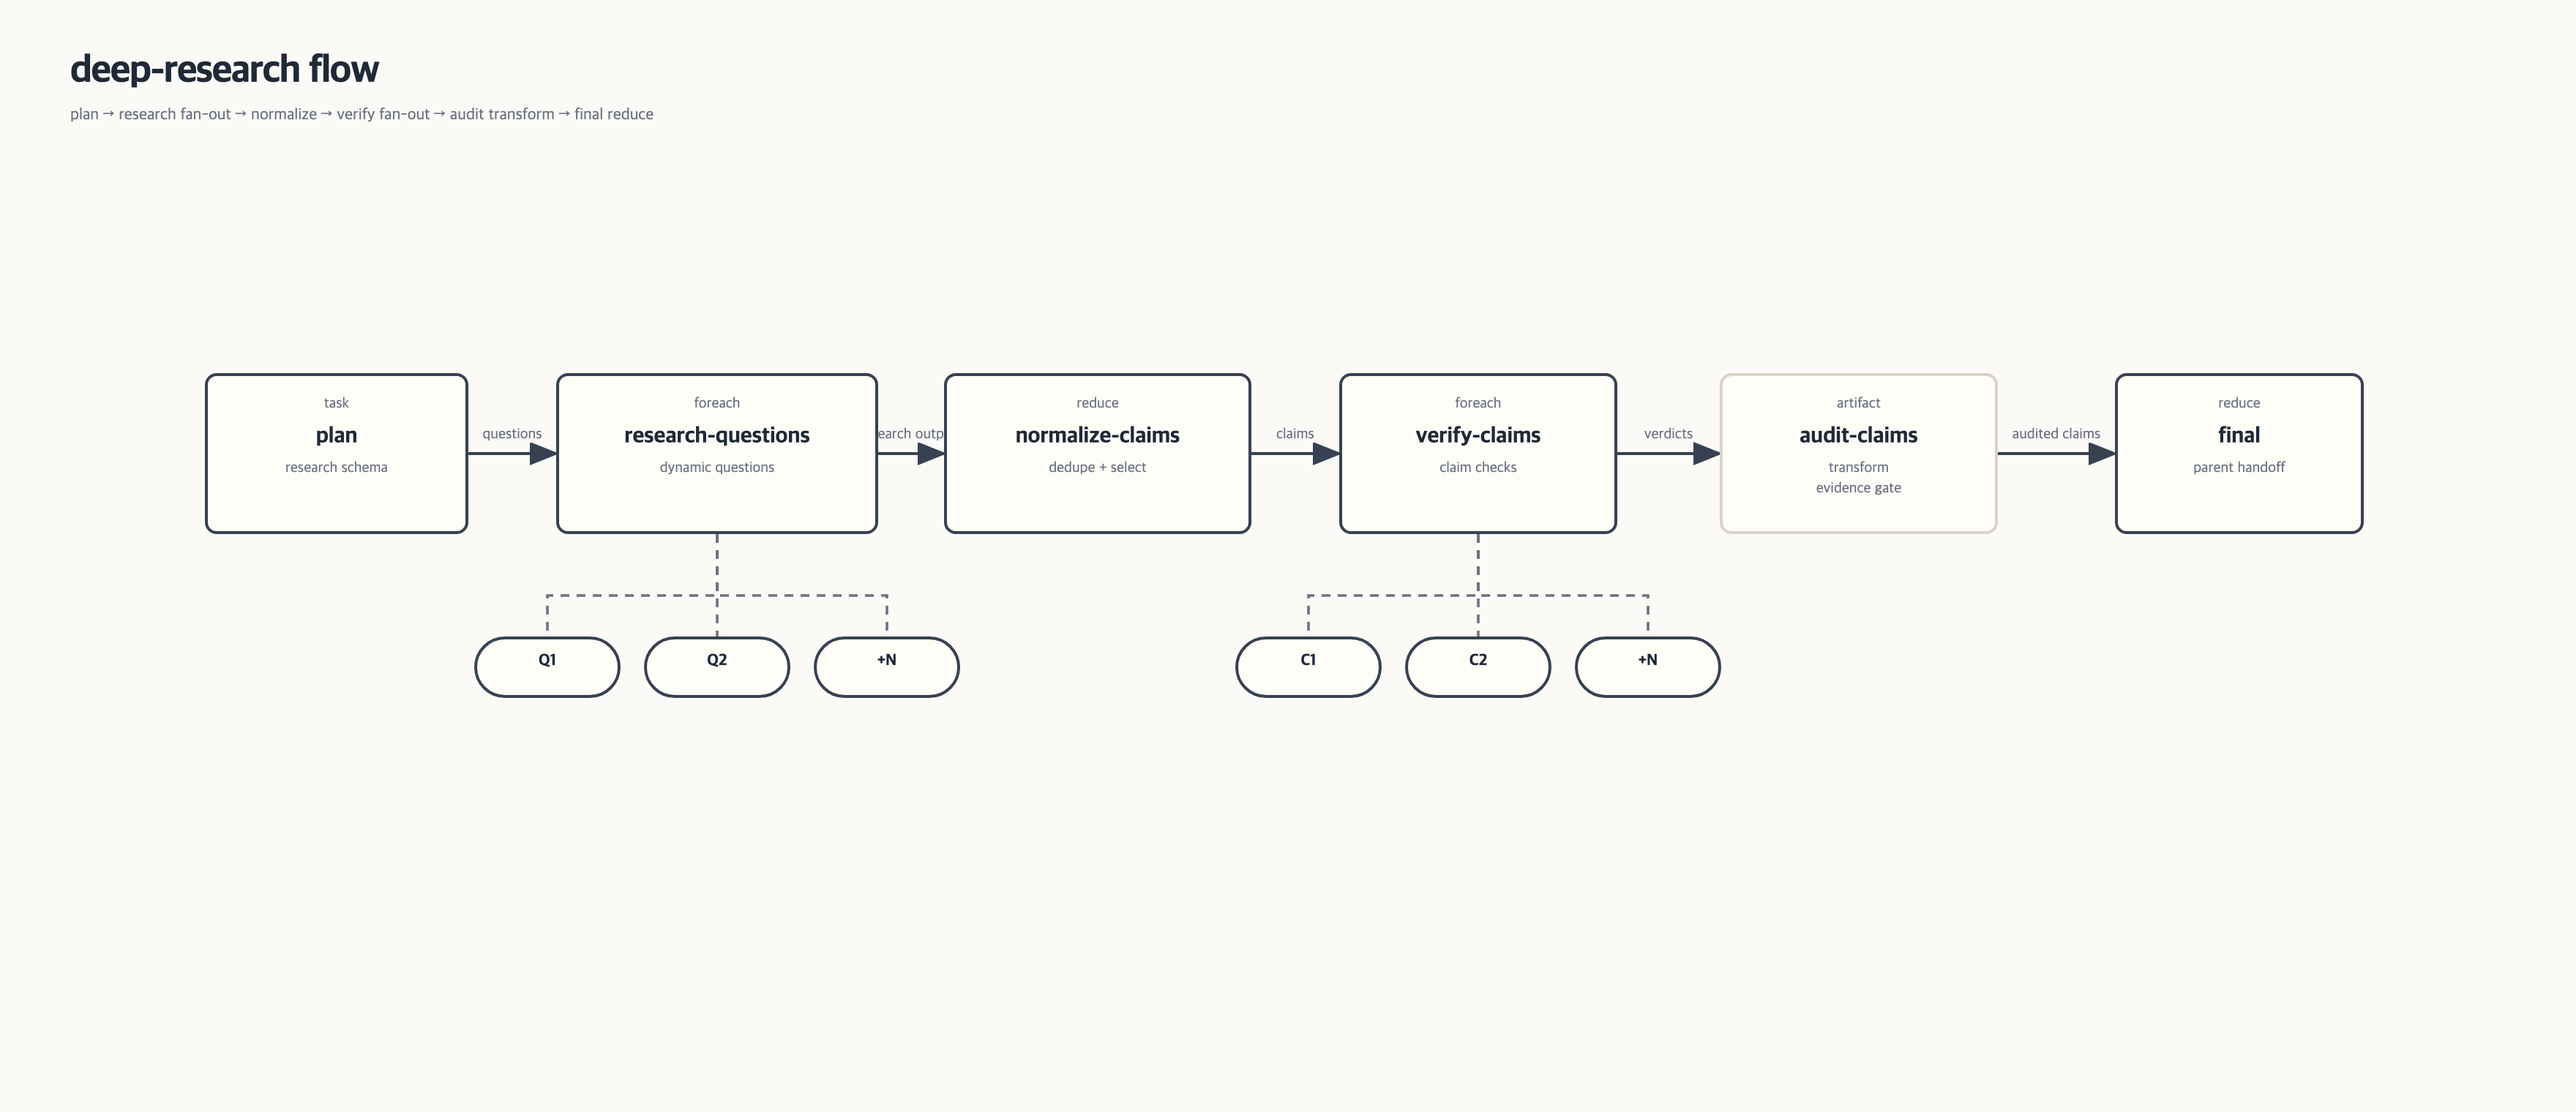
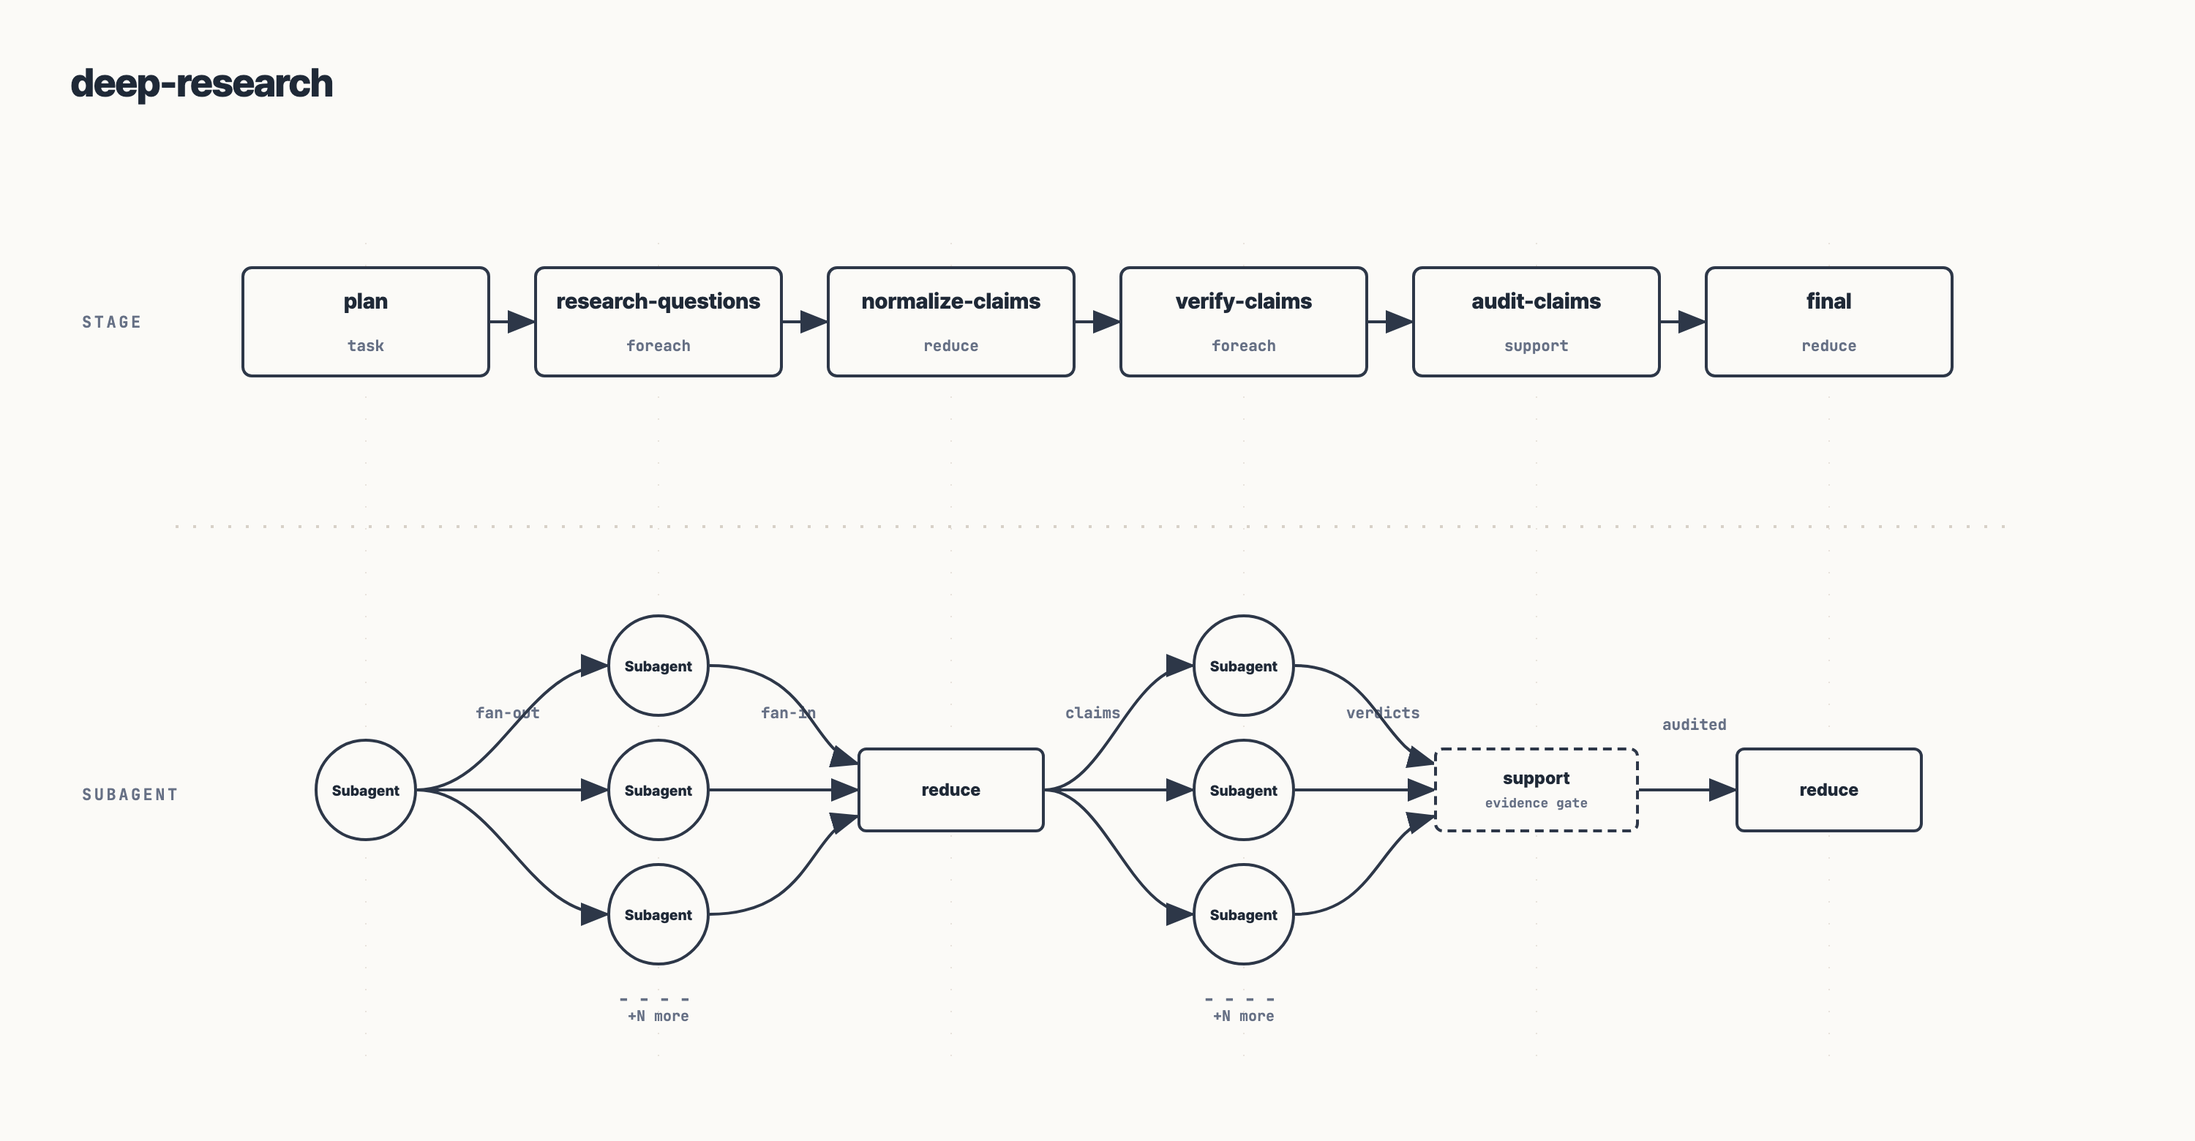
Refresh README workflow overview

diff --git a/README.md b/README.md
@@ -4,21 +4,24 @@
 
 [![npm](https://img.shields.io/npm/v/@agwab/pi-workflow.svg)](https://www.npmjs.com/package/@agwab/pi-workflow)
 
-`pi-workflow` lets you write project-specific workflows and run them through Pi's focused `/workflow` command surface. It supports explicit workflow structure — stage graphs, subagent fan-out/fan-in, local support helpers, bounded loops, and resumable artifacts — on top of [`@agwab/pi-subagent`](https://www.npmjs.com/package/@agwab/pi-subagent)'s durable worker runtime.
+`pi-workflow` lets Pi run repeatable multi-agent workflows: research, review, implementation loops, test repair, and project-specific team routines.
 
-It is intentionally a thin orchestration layer, so you can add it when you want reusable team workflows and remove it when plain Pi or direct subagent calls are enough.
-
-npm package: [`@agwab/pi-workflow`](https://www.npmjs.com/package/@agwab/pi-workflow)
+It is a thin orchestration layer on top of [`@agwab/pi-subagent`](https://www.npmjs.com/package/@agwab/pi-subagent). A workflow defines stages, agents, tools, output contracts, support helpers, and safety policy. The concrete user task is still supplied at runtime in natural language.
 
 ## Installation
 
-Install the package. This downloads both the `/workflow` extension and the bundled `workflow-guide` skill:
+Install the package:
 
 ```bash
 pi install npm:@agwab/pi-workflow
 ```
 
 Then reload Pi.
+
+This installs both:
+
+- the `/workflow` extension
+- the bundled `workflow-guide` skill
 
 To update later:
 
@@ -28,22 +31,9 @@ pi update npm:@agwab/pi-workflow
 
 Requires Node.js `>=22.19.0` on macOS or Linux. Native Windows is not supported; use WSL2.
 
-## Quick usage
+## Usage: ask naturally
 
-After installing and reloading Pi, call the bundled skill explicitly when you want to create or customize a workflow:
-
-```text
-/skill:workflow-guide create a workflow for weekly release readiness.
-It should inspect docs, tests, recent changes, and produce a final checklist.
-Save it as a reusable project workflow.
-```
-
-```text
-/skill:workflow-guide adapt deep-review for frontend accessibility and UX review.
-Save it as a reusable project workflow.
-```
-
-Then ask Pi to use a bundled or project workflow by name:
+After installation, ask Pi to use a bundled or project workflow by name:
 
 ```text
 Use the bundled deep-research workflow to research this repository and summarize the architecture tradeoffs.
@@ -53,131 +43,29 @@ Use the bundled deep-research workflow to research this repository and summarize
 Use the bundled deep-review workflow to review the current diff from multiple angles.
 ```
 
-If `/skill:workflow-guide` is not available, enable skill commands in Pi settings or use natural language: `Use workflow-guide to ...`.
-
-`workflow-guide` is the recommended way to create or customize workflows: describe the outcome, the agents/tools you want to allow, and the review or validation steps you expect.
-
-## What workflows do
-
-A workflow is a deterministic stage graph. The concrete user task is supplied at runtime; the workflow definition supplies the structure, role prompts, tool ceilings, output contracts, and safety policy.
-
-Important rule: **stage order controls scheduling only**. A later plain `task` stage does not automatically receive prior output. Use `foreach.from` for dynamic fan-out, `reduce.from` for source-context fan-in, and support `from` for local helper inputs.
-
-Public workflow definitions have three layers:
-
-- **Workflow layer**: stage ids, `from`, `sourcePolicy`, scheduling, and run artifacts.
-- **Subagent layer**: child Pi/model worker shapes — `task`, `parallel`, `foreach`, `reduce`, and `loop`.
-- **Support layer**: workflow-local helper execution via `support`; this is local Node code, not a subagent task type.
-
-| Node | Layer | Use it for | Runtime shape |
-|---|---|---|---|
-| `type: "task"` | Subagent | One focused step | one prompt -> one subagent |
-| `type: "parallel"` | Subagent/control | Static fan-out | fixed task list -> multiple subagents, bounded concurrency |
-| `type: "foreach"` | Subagent/control | Dynamic fan-out | read an array from prior JSON output -> one subagent task per item |
-| `type: "reduce"` | Subagent | Fan-in / synthesis | selected prior stage context -> one subagent |
-| `type: "loop"` | Workflow/control | Bounded repetition | repeat a fixed child stage subgraph until a deterministic stop condition |
-| `support` | Support | Deterministic local post-processing | selected prior structured outputs -> directory-local `.mjs` helper |
-
-A minimal workflow definition:
-
-```json
-{
-  "schemaVersion": 1,
-  "agent": "researcher",
-  "readOnly": true,
-  "tools": ["read", "grep", "find", "ls", "web_search", "fetch_content"],
-  "workflow": {
-    "stages": [
-      {
-        "id": "plan",
-        "type": "task",
-        "output": {
-          "format": "json",
-          "contract": { "requiredPaths": ["$.questions"] }
-        },
-        "prompt": "Plan the research questions."
-      },
-      {
-        "id": "research",
-        "type": "foreach",
-        "from": { "stage": "plan", "path": "$.questions", "mode": "concat" },
-        "maxConcurrency": 4,
-        "each": { "prompt": "Research this question: ${item}" }
-      },
-      {
-        "id": "normalize",
-        "from": "research",
-        "sourcePolicy": "partial",
-        "support": {
-          "uses": "./helpers/normalize.mjs",
-          "options": { "dedupe": true }
-        }
-      },
-      {
-        "id": "summary",
-        "type": "reduce",
-        "from": ["plan", "normalize"],
-        "prompt": "Use Source Stage Context to synthesize the answer."
-      }
-    ]
-  }
-}
+```text
+Use the test-repair-loop workflow to fix the failing validation command I just ran.
 ```
 
-### Tool allowlists and provider metadata
+Bundled starter workflows:
 
-`tools` may be a string allowlist or a mix of strings and objects. Strings keep the existing behavior. Object entries select the same tool name while adding local provider and safety metadata for custom tools:
+| Workflow | Use when |
+|---|---|
+| `deep-research` | Source-backed research, claim verification, citations, or follow-up suggestions. |
+| `deep-review` | Multi-lens review where findings should be challenged before final synthesis. |
+| `implement-loop` | Iterative implementation in one managed worktree until validation passes and review accepts. |
+| `test-repair-loop` | Focused repair loop for failing tests or explicit validation commands. |
 
-```json
-{
-  "tools": [
-    "read",
-    "fetch_content",
-    {
-      "name": "scrapling_fetch",
-      "extensions": ["packages/pi-scrapling-access"],
-      "classification": "read-only",
-      "optional": true,
-      "fallbackTools": ["fetch_content"]
-    }
-  ]
-}
-```
+These are starter workflows, not a complete catalog. Most teams should create project-specific workflows as their patterns settle.
 
-Agent frontmatter remains the authority ceiling: workflow, defaults, and stage `tools` can only narrow tools already declared by the selected agent. Built-in tool classifications remain authoritative; custom tools without an explicit object `classification` still require explicit review. Bundled/public workflows should avoid machine-specific local provider paths. Project-local workflows may use deliberate local package refs such as `packages/...` when they are portable within that project.
+## Usage: create your own workflows
 
-## Bundled starter workflows
-
-The package includes a small starter set in [`workflows/`](./workflows/). These are practical defaults and authoring examples, not a comprehensive workflow catalog. Most teams should copy or create project-specific workflows under `.pi/workflows/` as their patterns settle.
-
-Workflow names resolve from project `.pi/workflows/`, repository `workflows/`, bundled package workflows, and `~/.pi/agent/workflows/`; ambiguous names fail closed.
-
-| Workflow | Shape | Use when |
-|---|---|---|
-| `deep-research` | task -> foreach -> reduce -> foreach -> support -> reduce | Source-backed research, claim verification, deterministic evidence gating, citations, or follow-up suggestions. |
-| `deep-review` | task -> foreach -> support -> foreach -> support -> reduce | Multi-lens review where findings should be challenged before final synthesis. |
-| `implement-loop` | loop: implement -> final check | Iterative implementation in one managed worktree until validation passes and review accepts. |
-| `test-repair-loop` | loop: repair -> final test-check | Focused repair loop for failing tests or explicit validation commands. |
-
-Additional workflow shapes are intentionally left to project-local workflows until their task fit is clear enough to bundle.
-
-## Create or customize workflows with `workflow-guide`
-
-`pi-workflow` includes a `workflow-guide` skill for creating, modifying, and reviewing workflow definitions.
-
-Use it when you want to adapt a bundled starter or create a project-specific workflow. Tell Pi what kind of workflow you want, what it should check, which agents it should use, and where to save it.
-
-Examples:
+Use the bundled `workflow-guide` skill when you want to create, adapt, or review a workflow definition:
 
 ```text
-/skill:workflow-guide create a backend API review workflow.
-It should check concurrency, transaction safety, error handling, observability, and test risk.
+/skill:workflow-guide create a workflow for weekly release readiness.
+It should inspect docs, tests, recent changes, package metadata, and produce a final checklist.
 Save it as a reusable project workflow.
-```
-
-```text
-/skill:workflow-guide create a release readiness workflow.
-It should inspect the current diff, docs, tests, package metadata, and produce a launch checklist.
 ```
 
 ```text
@@ -185,21 +73,94 @@ It should inspect the current diff, docs, tests, package metadata, and produce a
 Save it as a reusable project workflow.
 ```
 
-After the workflow is created, ask Pi to use that workflow by name for future tasks.
+```text
+/skill:workflow-guide create a backend API review workflow.
+It should check concurrency, transaction safety, error handling, observability, and test risk.
+```
+
+If `/skill:workflow-guide` is not available, enable skill commands in Pi settings or ask naturally:
+
+```text
+Use workflow-guide to create a reusable workflow for release readiness.
+```
+
+Project workflows usually live under:
+
+```text
+.pi/workflows/
+```
+
+Workflow names resolve from project `.pi/workflows/`, repository `workflows/`, bundled package workflows, and `~/.pi/agent/workflows/`. Ambiguous names fail closed.
+
+## Workflow architecture
+
+`pi-workflow` has three layers:
+
+1. **Workflow** — the deterministic graph: stage ids, `from` links, scheduling, loop bounds, run state, artifacts, and resume behavior.
+2. **Task** — the subagent execution patterns used inside the graph: one worker, fixed fan-out, dynamic fan-out, fan-in synthesis, or bounded loops.
+3. **Support** — local deterministic helper rails around subagent work: output contracts, Source Stage Context, support helpers, tool ceilings, worktrees, logs, and artifacts.
+
+### 1. Workflow layer
+
+A workflow is a deterministic stage graph. It decides what work exists, when each stage can run, and what prior stage context is available.
+
+Important rule:
+
+> Stage order controls scheduling; `from` controls data flow.
+
+A later plain `task` does not automatically receive prior output. Use `foreach.from`, `reduce.from`, or support `from` when a stage needs structured output from earlier stages.
+
+### 2. Task layer: subagent execution patterns
+
+Most workflow stages launch one or more Pi subagents through `@agwab/pi-subagent`.
+
+![Core workflow stage shapes](./docs/assets/readme/stage-types.png)
+
+_Core subagent-backed stage shapes. `loop` and support nodes are described separately._
+
+| Stage | Use it for | Runtime shape |
+|---|---|---|
+| `task` | One focused step | one prompt → one subagent |
+| `parallel` | Static fan-out | fixed task list → multiple subagents, bounded concurrency |
+| `foreach` | Dynamic fan-out | JSON array from prior output → one subagent task per item |
+| `reduce` | Fan-in / synthesis | selected Source Stage Context → one subagent |
+| `loop` | Bounded repetition | repeat a fixed child stage subgraph until a deterministic stop condition |
+
+Example starter shapes:
+
+![Deep research workflow flow](./docs/assets/readme/deep-research-flow.png)
+
+![Deep review workflow flow](./docs/assets/readme/deep-review-flow.png)
+
+### 3. Support layer
+
+Support nodes and policies keep workflow runs deterministic and reviewable. They are not subagent tasks.
+
+Support includes:
+
+- output contracts and JSON validation
+- output retry instructions when JSON is invalid
+- Source Stage Context packaging and size caps
+- directory-local `.mjs` support helpers
+- tool allowlists and object-form tool metadata
+- managed worktree policy for mutation-capable workflows
+- run logs, artifacts, telemetry, and resume state
+
+Support helpers run inside the workflow process, not in a subagent sandbox. Helper refs must stay inside the workflow bundle directory.
 
 ## Safety notes
 
 - `/workflow` is an orchestrator, not an OS sandbox.
-- Subagent workers are launched through `@agwab/pi-subagent`; inspect that package's sandbox/worktree behavior for execution isolation details.
+- Workers run through `@agwab/pi-subagent`; sandbox/worktree behavior follows that package.
 - Agent-declared tools are the authority ceiling; workflow definitions can only narrow them.
 - `readOnly: true` and custom tool classifications are permission previews/tool policy, not filesystem isolation.
 - Support helpers run as local `.mjs` code inside the workflow process with bundle path containment only; they are not sandboxed and are not constrained by subagent tool allowlists.
 - Review workflows should remain read-only unless a workflow explicitly documents managed-worktree mutation.
-- Mutation-capable tasks should normally use managed worktrees in git repositories.
+- Mutation-capable workflows should normally use managed worktrees in git repositories.
 - In non-git workspaces, write-capable workflows with `worktreePolicy: "off"` mutate the live directory.
 - No backend fallback exists: the resolved backend/strategy is fixed per run.
 
-## Detailed docs
+## More
 
-- [`docs/usage.md`](./docs/usage.md) — command reference, install/development notes, workflow resolution, run artifacts, authoring rules, and release checks.
+- [`docs/usage.md`](./docs/usage.md) — command reference, workflow resolution, run artifacts, authoring rules, and release checks.
 - [`workflows/README.md`](./workflows/README.md) — bundled workflow notes.
